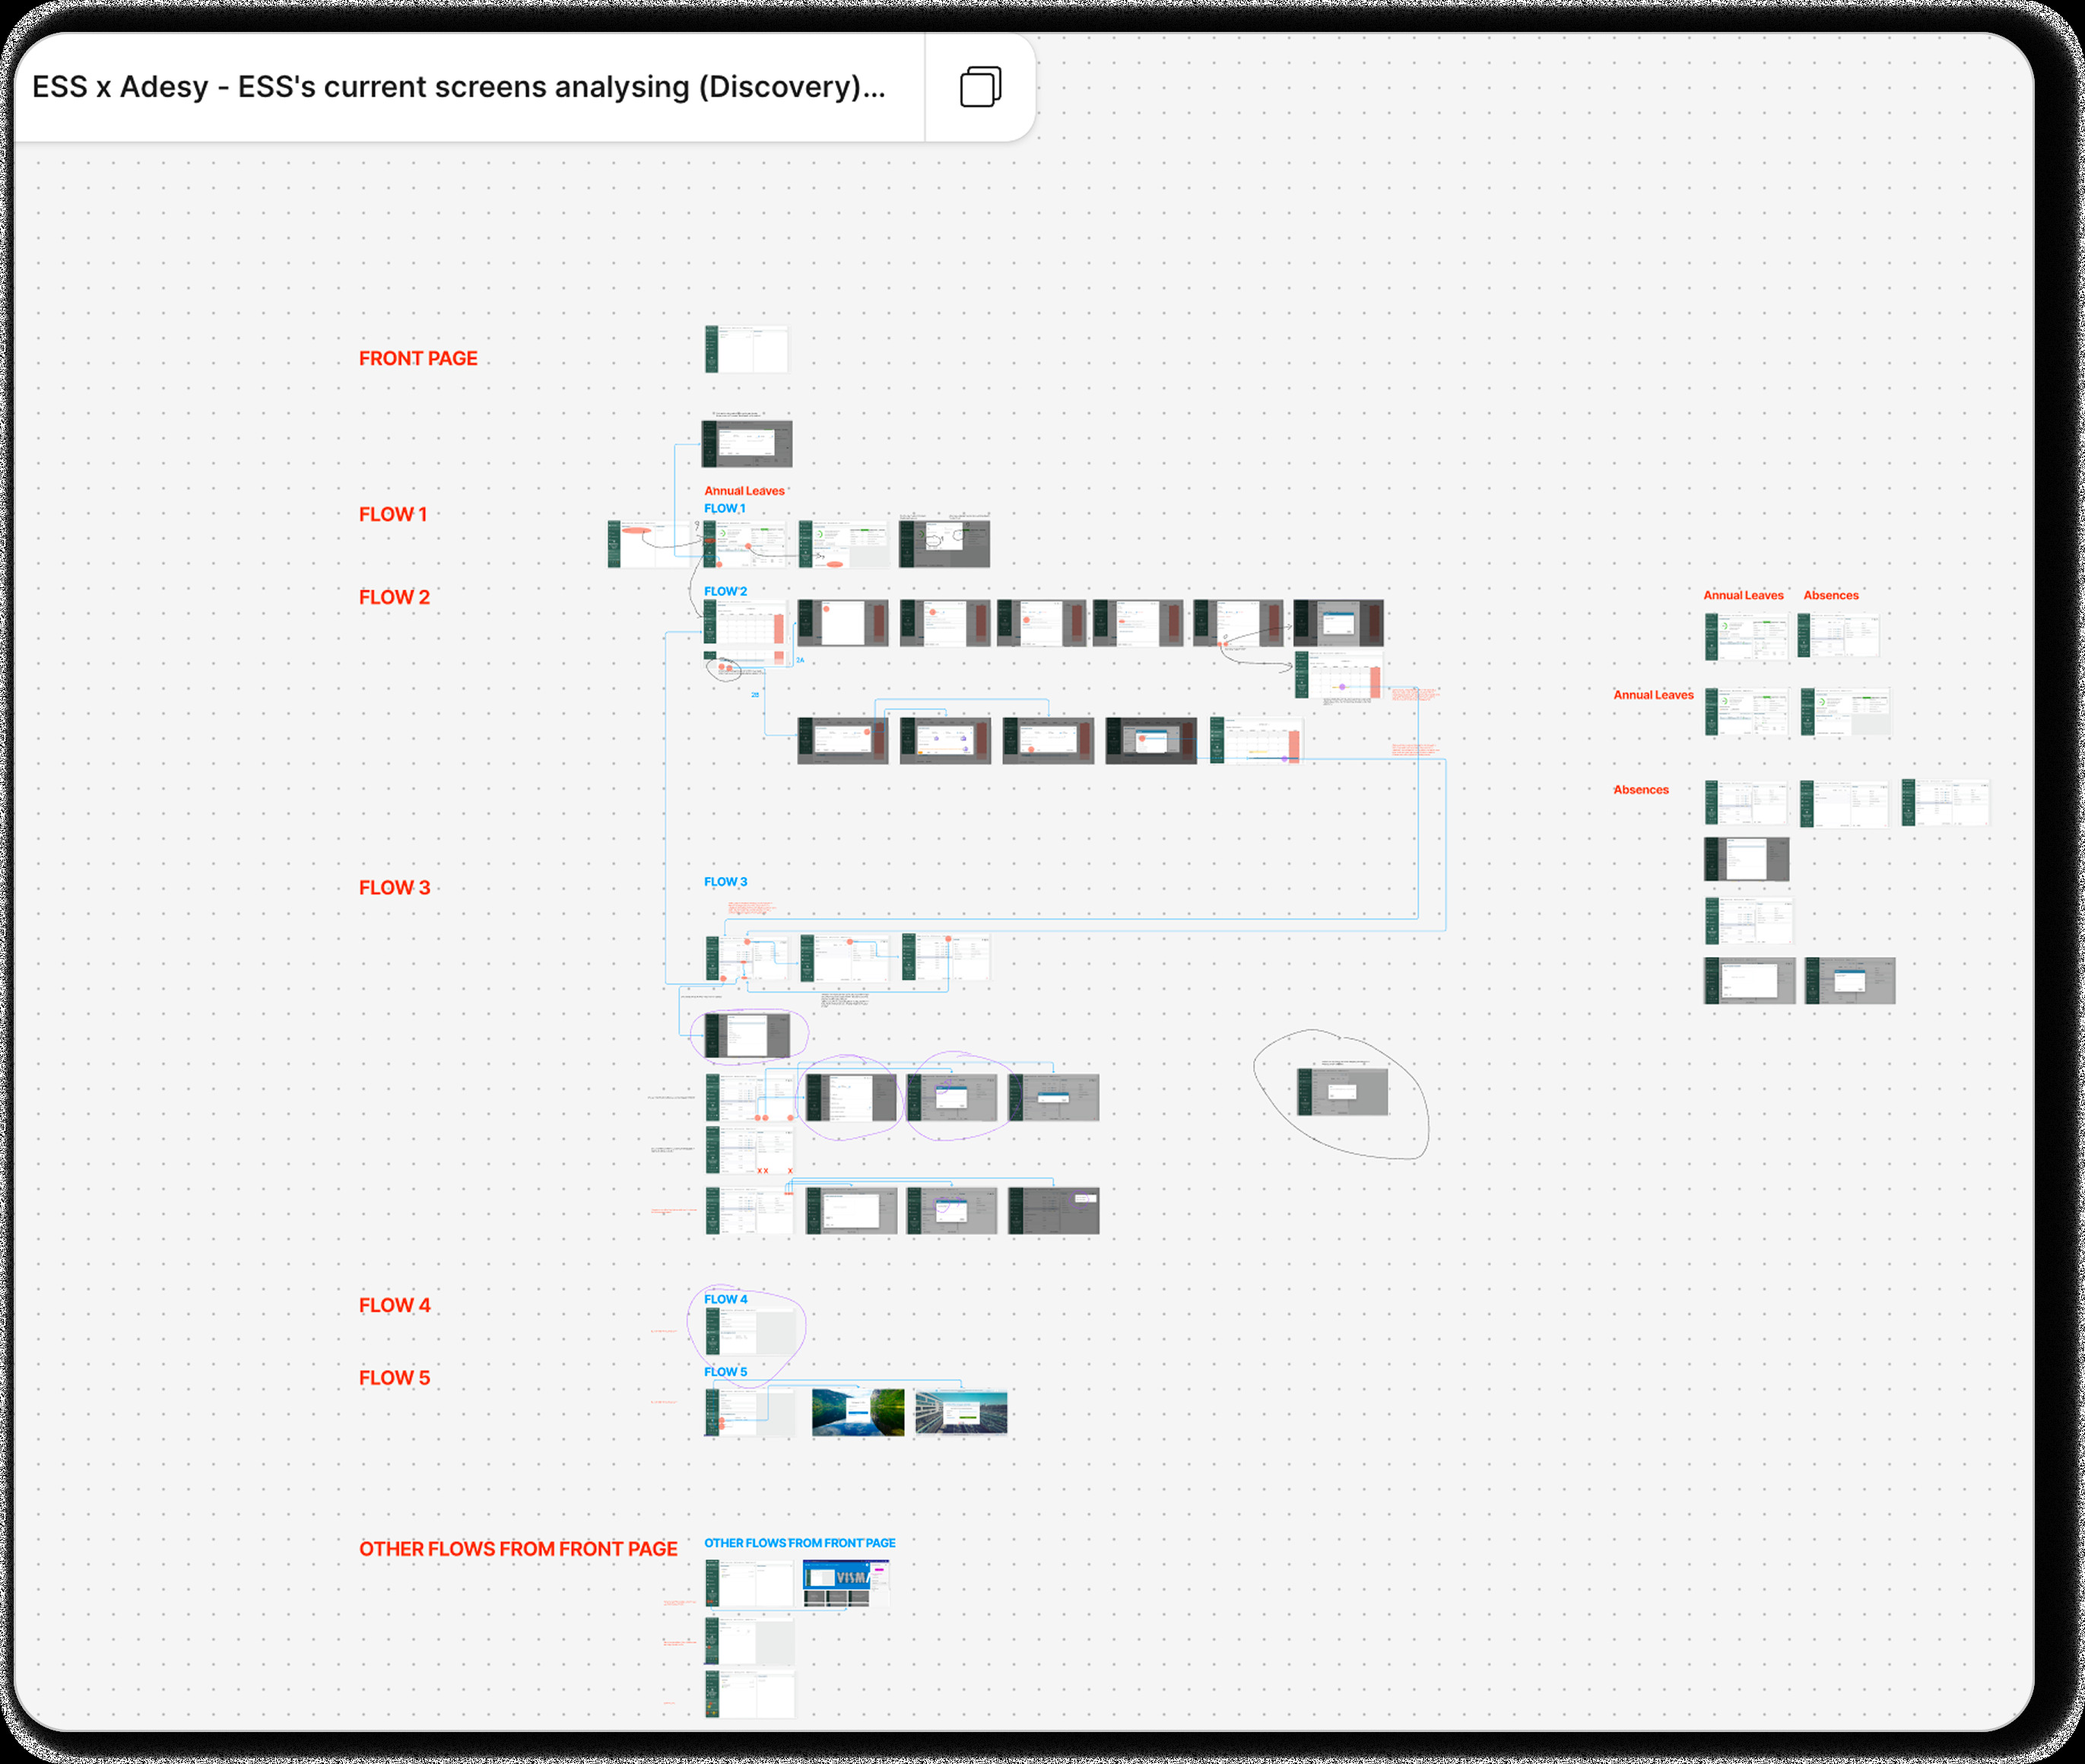
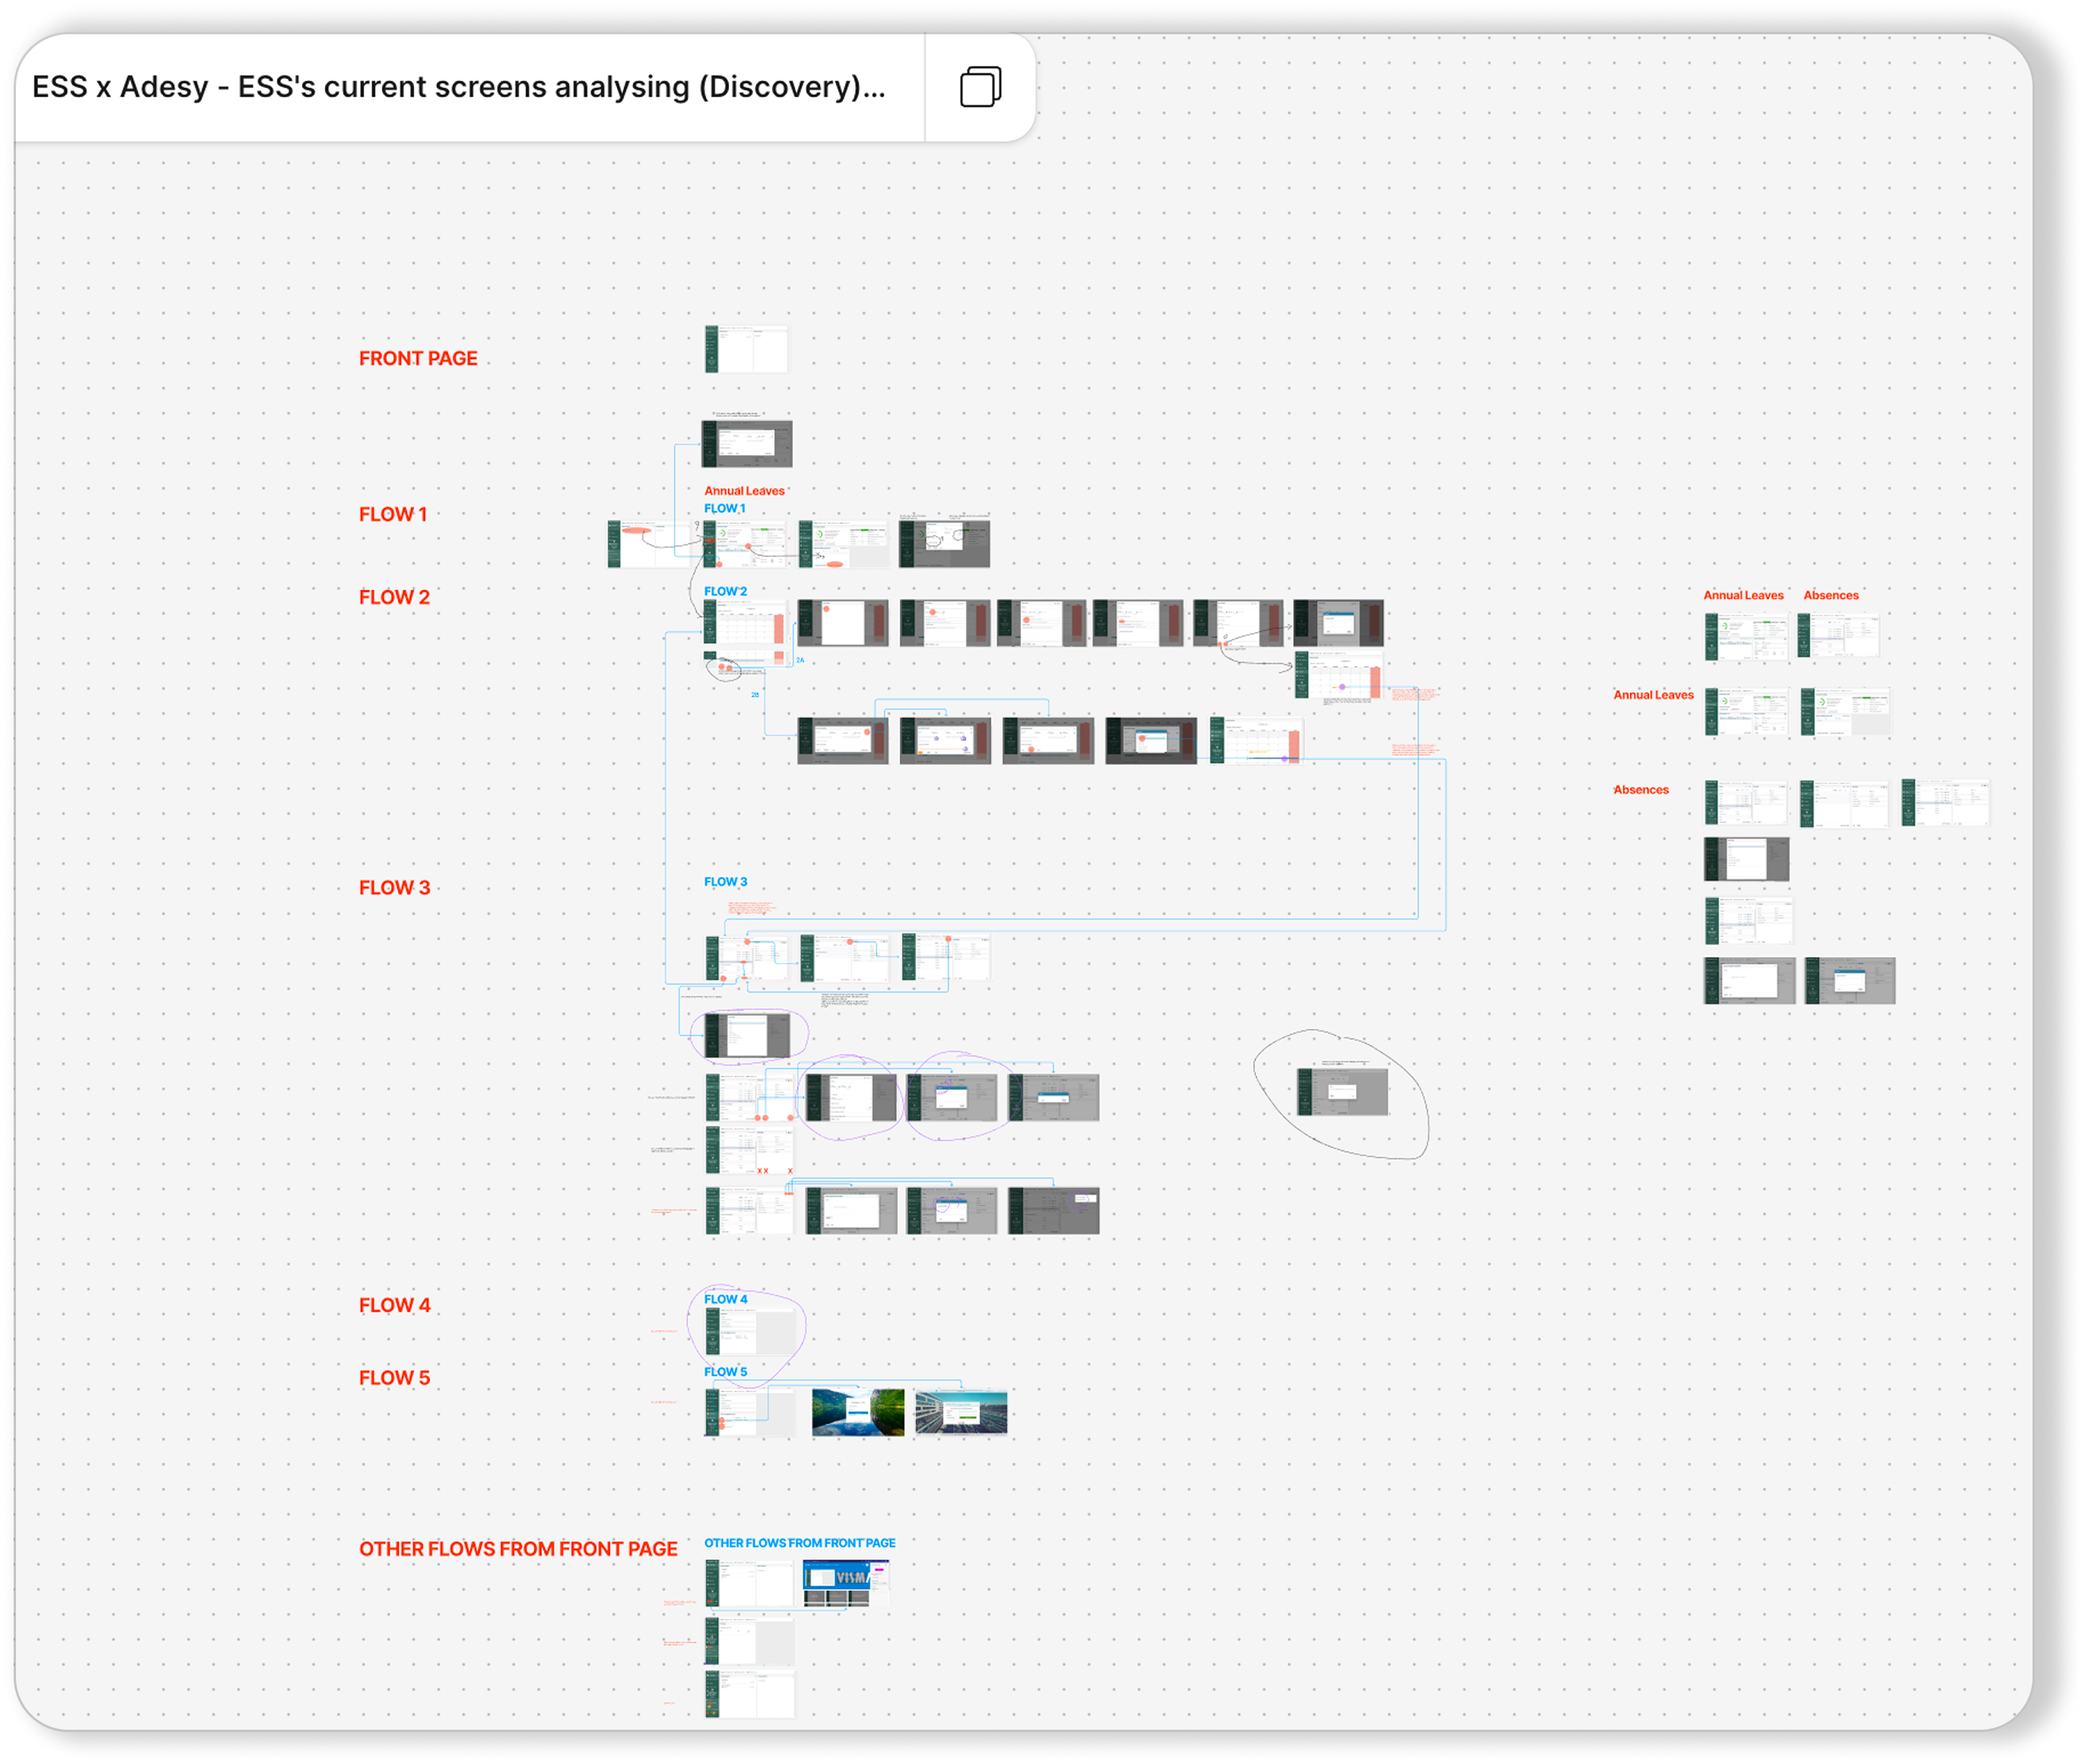
adjust img

Changed region(s): [[0.0, 0.0, 1.0, 1.0]]

diff --git a/ess.html b/ess.html
@@ -292,7 +292,7 @@
       <li style="margin-bottom: 0.75rem;">pNPS feedback from active users</li>
       <li style="margin-bottom: 0.75rem;">User feedback from 1,448 employees across organizations</li>
       <li>Existing workflows and interface patterns</li>
-      <div class="image-placeholder"><img src="images/ess-html/Current screen mapping.png" alt="Figma token variables panel showing token hierarchy and naming structure"></div>
+      <div class="image-placeholder"><img src="images/ess-html/Current screen mapping.jpg" alt="Figma token variables panel showing token hierarchy and naming structure"></div>
 
     </ul>
 
@@ -320,7 +320,7 @@
     <h3 style="font-family: 'Cormorant Garamond', serif; font-size: 1.3rem; color: var(--text-primary); margin: 2rem 0 1rem;">Wireframing</h3>
     <p style="color: var(--text-secondary); margin-bottom: 2rem;">Created quick sketches and wireframes to validate layout concepts and workflow improvements with the project team before moving to high-fidelity design.</p>
     <div class="image-placeholder"><img src="images/ess-html/ESS before after - paper wireframe.jpg" alt="Figma token variables panel showing token hierarchy and naming structure"></div>
-    <div class="image-placeholder"><img src="images/ess-html/Wireframe.png" alt="Figma token variables panel showing token hierarchy and naming structure"></div>
+    <div class="image-placeholder"><img src="images/ess-html/Wireframe.jpg" alt="Figma token variables panel showing token hierarchy and naming structure"></div>
 
 
 
@@ -330,7 +330,7 @@
       <li style="margin-bottom: 0.75rem;">Home Screen redesign</li>
       <li style="margin-bottom: 0.75rem;">Create Vacation workflow</li>
       <li>Create Absence workflow</li>
-      <div class="image-placeholder"><img src="images/ess-html/Lofi testing.png" alt="Figma token variables panel showing token hierarchy and naming structure"></div>
+      <div class="image-placeholder"><img src="images/ess-html/Lofi testing.jpg" alt="Figma token variables panel showing token hierarchy and naming structure"></div>
 
     </ul>
     <p style="color: var(--text-secondary); margin-bottom: 2rem;">Collaborated with UX Research to conduct Maze testing with 30 customers and identify early usability issues before committing to high-fidelity design.</p>
